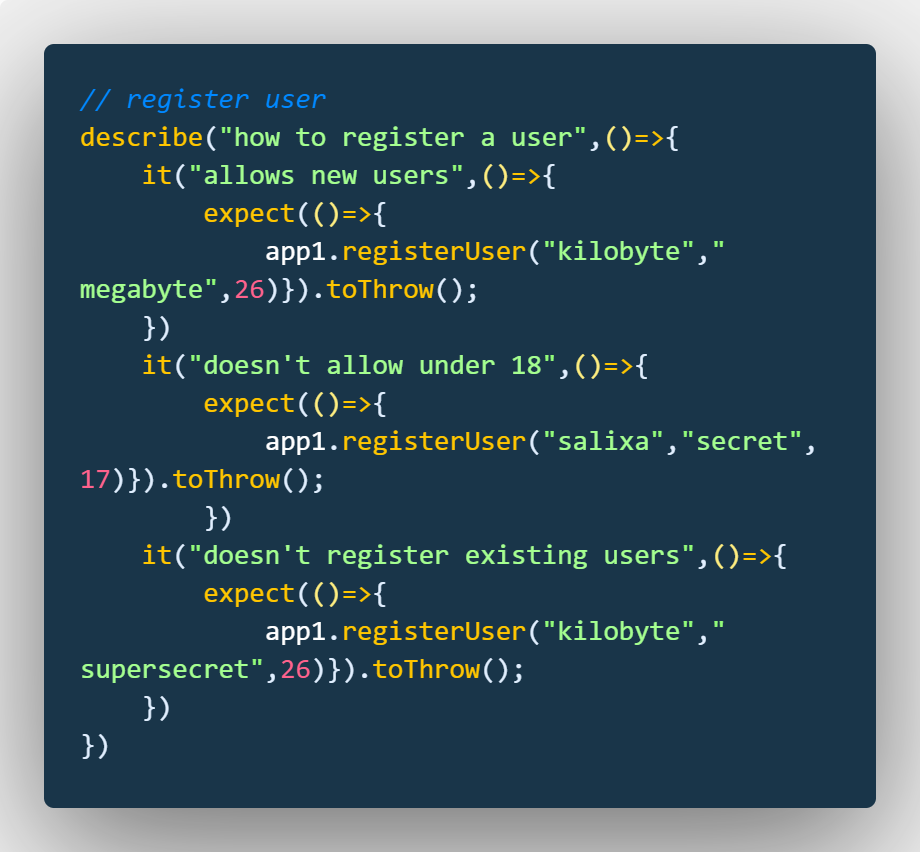
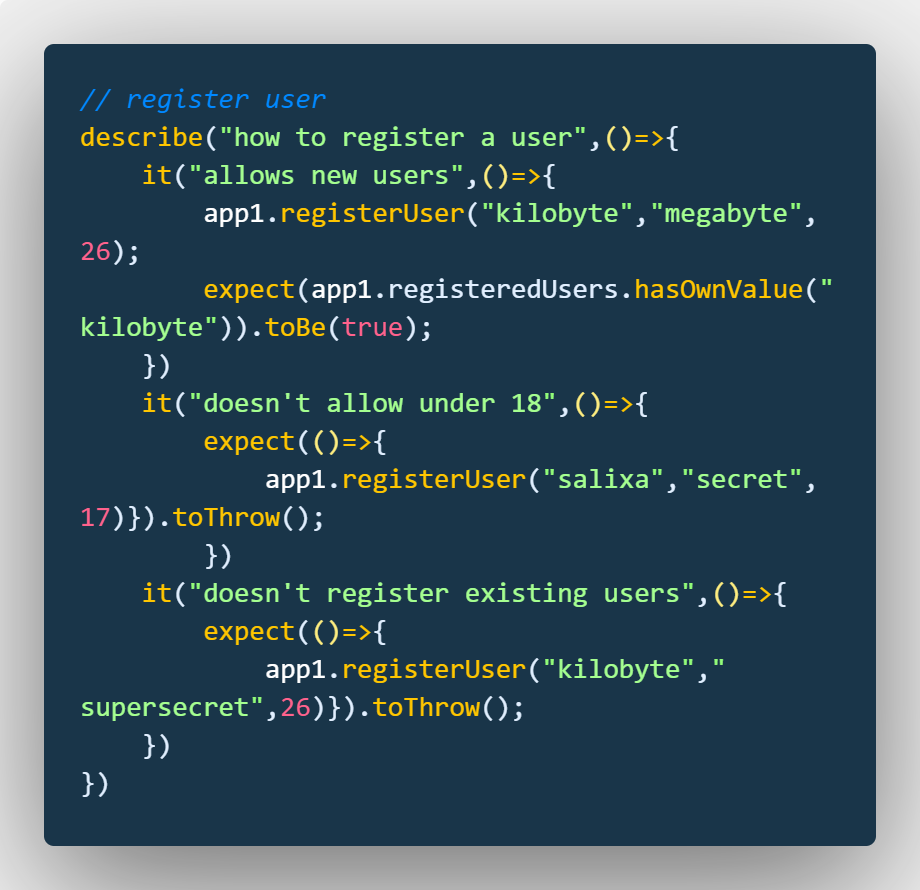
Added some User tests and updated ScooterApp

Changed region(s): [[0.0913, 0.0915, 0.8826, 0.8545], [0.0913, 0.8545, 0.1217, 0.9155], [0.0913, 0.2746, 0.1522, 0.3052]]

diff --git a/tests/User.test.js b/tests/User.test.js
@@ -1,4 +1,5 @@
 const User = require('../src/User')
+const user1 = new User("willow","password",35);
 
 // User tests here
 
@@ -9,5 +10,21 @@ const User = require('../src/User')
 // test age
 
 // test login
+describe("trying to log in",()=>{
+    it("logs in",()=>{
+        user1.login("password");
+        expect(user1.loggedIn).toBe(true)
+    })
+    it("doesn't allow wrong passwords",()=>{
+        expect(()=>{
+            user1.login("secret")}).toThrow();
+        })
+})
 
 // test logout
+describe("logs user out",()=>{
+    user1.logout();
+    it("logs the user out",()=>{
+        expect(user1.loggedIn).toBe(false)
+    })
+})

diff --git a/src/User.js b/src/User.js
@@ -1,5 +1,23 @@
 class User {
   // User code here
+  constructor(username,password,age){
+    this.username = username;
+    this.password = password;
+    this.age = age;
+    this.loggedIn = false;
+  }
+
+  login(password){
+    if(password === User.password){
+      this.loggedIn = true;
+    } else {
+      throw new Error("incorrect password")
+    }
+  }
+
+  logout(){
+    this.loggedIn = false;
+  }
 }
 
 module.exports = User

diff --git a/tests/ScooterApp.test.js b/tests/ScooterApp.test.js
@@ -8,8 +8,8 @@ const app1 = new ScooterApp;
 // register user
 describe("how to register a user",()=>{
     it("allows new users",()=>{
-        expect(()=>{
-            app1.registerUser("kilobyte","megabyte",26)}).toThrow();
+        app1.registerUser("kilobyte","megabyte",26);
+        expect(app1.registeredUsers.hasOwnValue("kilobyte")).toBe(true);
     })
     it("doesn't allow under 18",()=>{
         expect(()=>{
